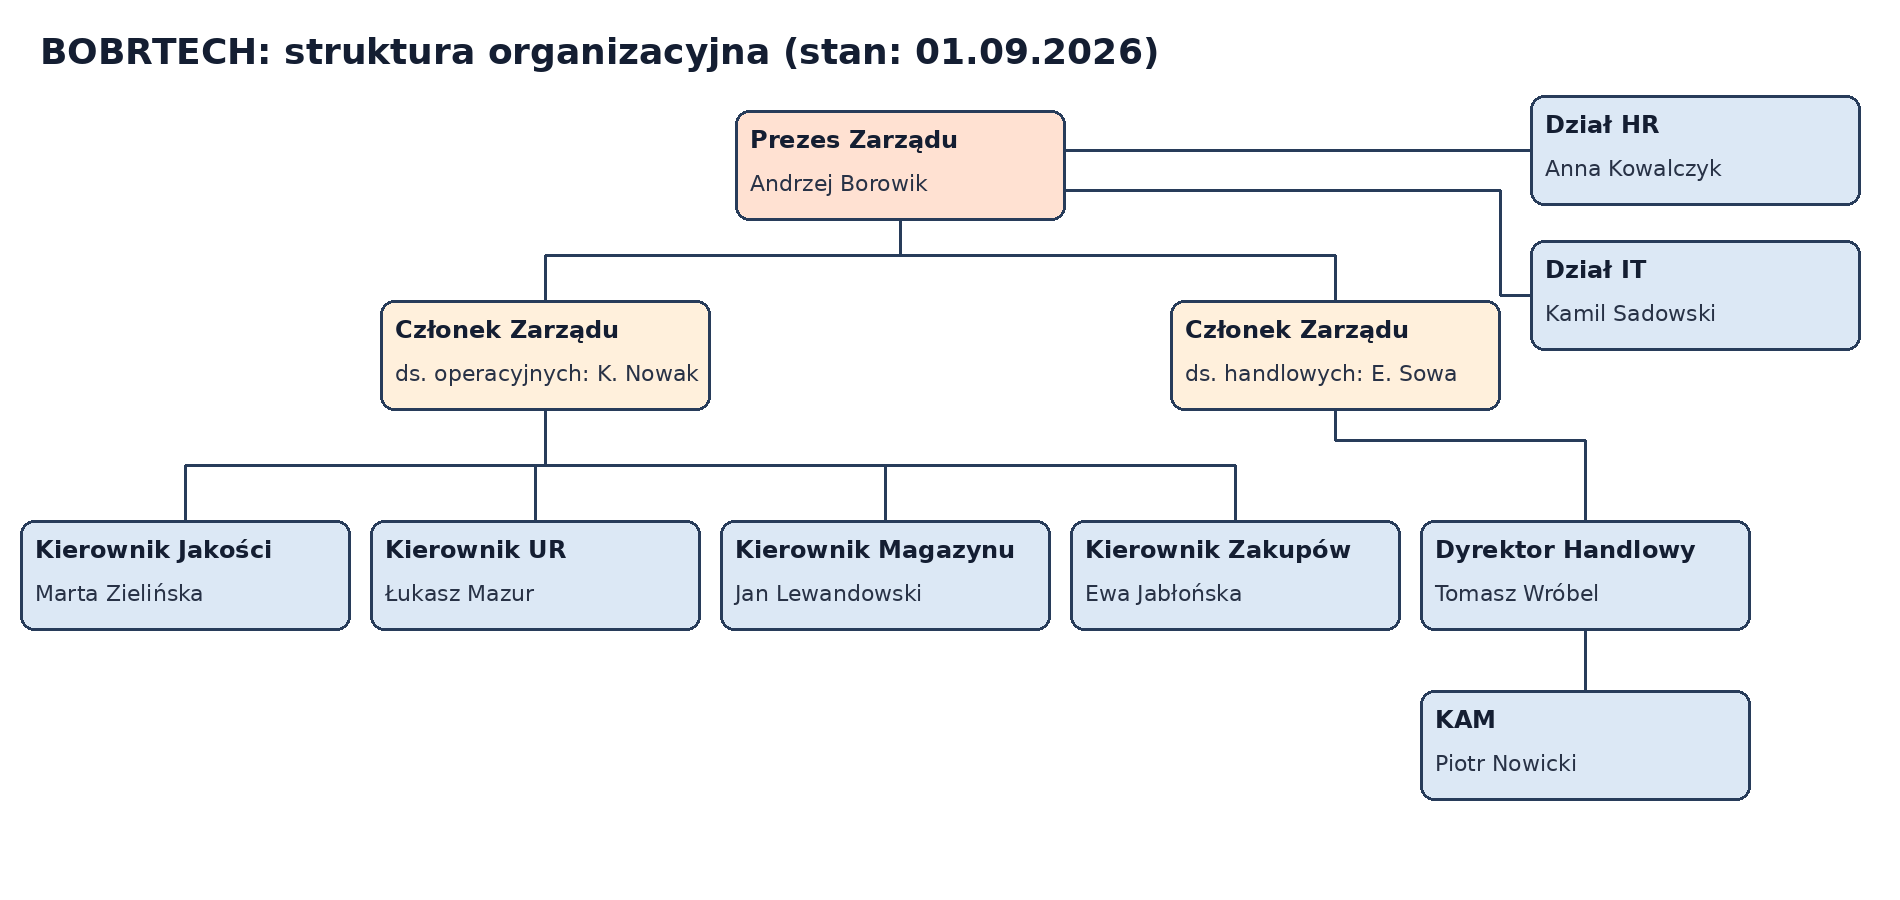
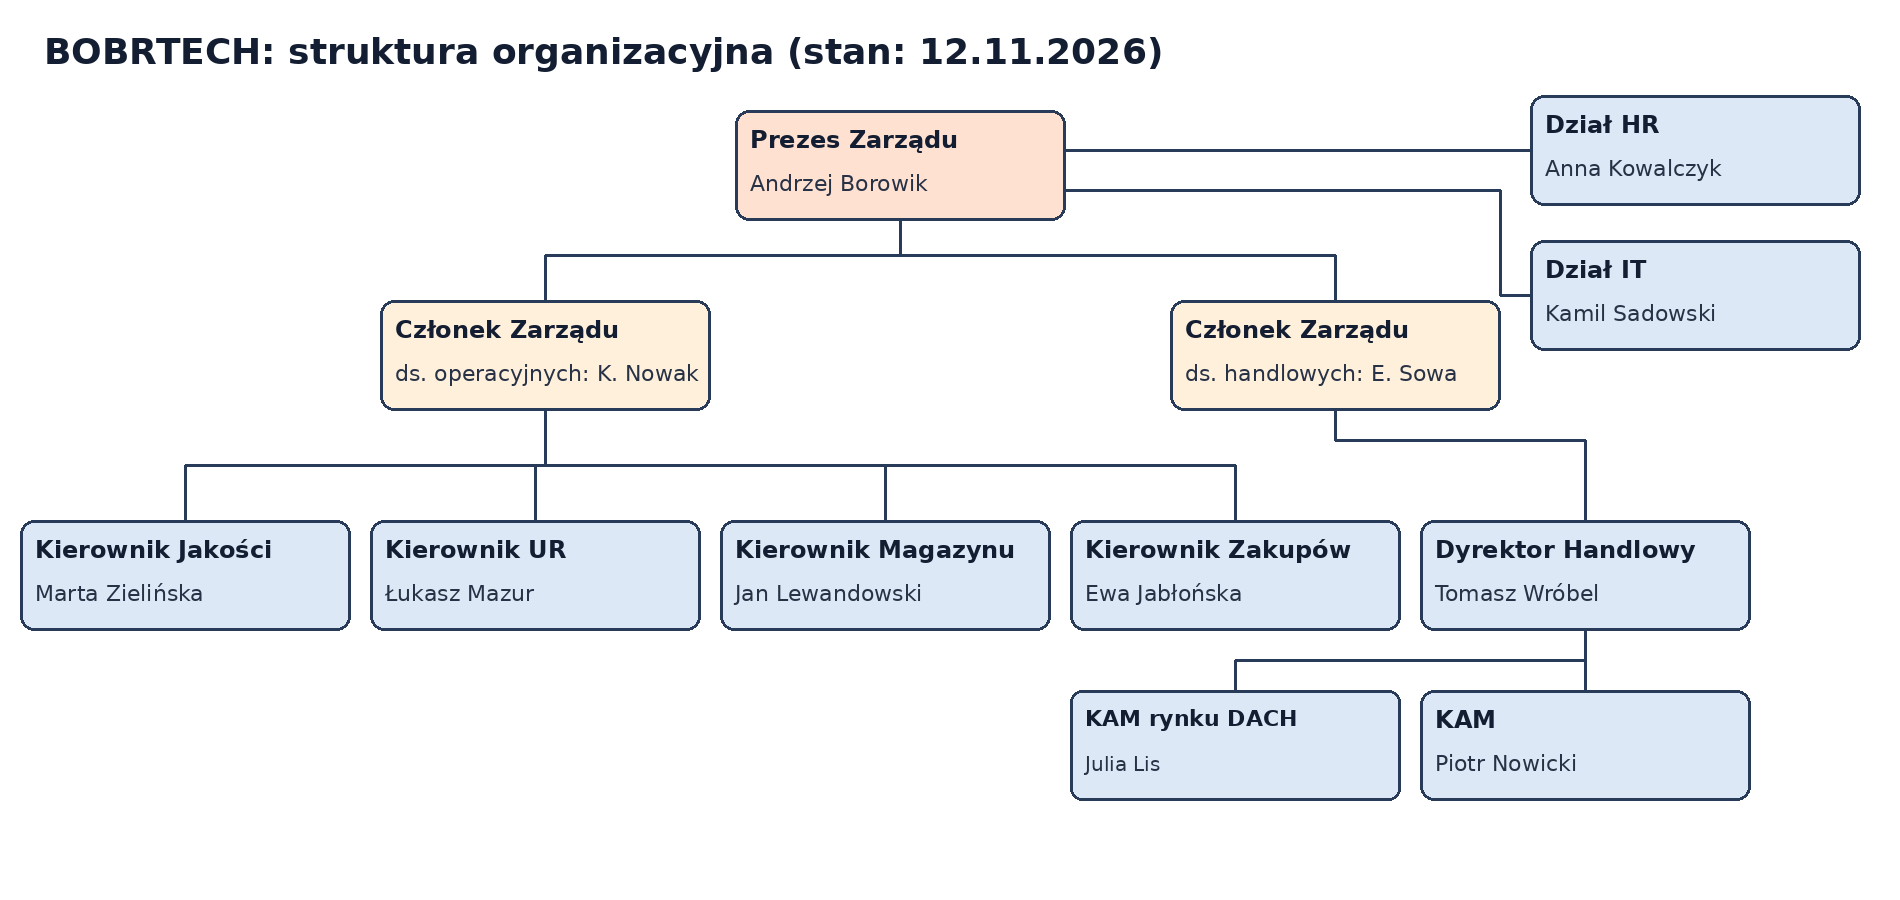
OG-ORG 2026-11: nowe stanowisko KAM rynku DACH (Julia Lis)
Zmieniony schemat PNG i jego transkrypcja w .md w jednym commicie.

Changed region(s): [[0.0311, 0.0311, 0.6211, 0.0933], [0.5589, 0.7156, 0.8074, 0.9022]]

diff --git a/00_ogolne/OG-ORG_struktura_organizacyjna.md b/00_ogolne/OG-ORG_struktura_organizacyjna.md
@@ -5,23 +5,23 @@ rodzaj: struktura
 tytul: Struktura organizacyjna BOBRTECH
 opis: "kto komu podlega, kto kieruje działami i zakładami"
 slowa_kluczowe: [struktura, organigram, podległość, przełożony, kierownik, zarząd, org chart]
-wersja: "2026-09"
+wersja: "2026-11"
 status: obowiązujący
-obowiazuje_od: 2026-09-01
+obowiazuje_od: 2026-11-12
 nastepny_przeglad: 2027-09-01
 wlasciciel: Dział HR (Anna Kowalczyk)
 dzial: Ogólne
 klasyfikacja: WEWNĘTRZNE
 wzorzec: md
 obraz: zalaczniki/obrazy/OG-ORG_struktura_organizacyjna.png
-zweryfikowal: "A. Kowalczyk, 2026-09-01"
+zweryfikowal: "A. Kowalczyk, 2026-11-12"
 zrodlo_prawdy_dla: [podległość służbowa]
 ---
-# Struktura organizacyjna BOBRTECH (stan na 1.09.2026)
+# Struktura organizacyjna BOBRTECH (stan na 12.11.2026)
 
 Transkrypcja schematu organizacyjnego (obraz: `zalaczniki/obrazy/OG-ORG_struktura_organizacyjna.png`).
 
 ## Zarząd
 - **Prezes Zarządu**: Andrzej Borowik. Bezpośrednio podlegają mu: Dział HR (Anna Kowalczyk) i Dział IT (Kamil Sadowski).
 - **Członek Zarządu ds. operacyjnych**: Krzysztof Nowak. Podlegają mu: Kierownik Jakości (Marta Zielińska), Kierownik Utrzymania Ruchu (Łukasz Mazur), Kierownik Magazynu (Jan Lewandowski), Kierownik Zakupów (Ewa Jabłońska).
-- **Członek Zarządu ds. handlowych**: Ewa Sowa. Podlega jej Dyrektor Handlowy (Tomasz Wróbel), któremu podlega KAM (Piotr Nowicki).
+- **Członek Zarządu ds. handlowych**: Ewa Sowa. Podlega jej Dyrektor Handlowy (Tomasz Wróbel), któremu podlegają KAM (Piotr Nowicki) i KAM rynku DACH (Julia Lis).

diff --git a/00_ogolne/INDEX.md b/00_ogolne/INDEX.md
@@ -5,6 +5,6 @@ wlasciciel: "Biuro Zarządu"
 # 00_ogolne
 
 <!-- INDEKS:START (generowany, nie edytuj) -->
-- OG-ORG 2026-09: kto komu podlega, kto kieruje działami i zakładami (`OG-ORG_struktura_organizacyjna.md`, przegląd 2027-09-01)
+- OG-ORG 2026-11: kto komu podlega, kto kieruje działami i zakładami (`OG-ORG_struktura_organizacyjna.md`, przegląd 2027-09-01)
 - OG-SL-01 1.4: znaczenie skrótów (OTD, PPAP, 8D, KJ) i nazw systemów firmy (Reklamator, Delegatka, ERP) (`OG-SL-01_slownik_skrotow.md`, przegląd 2027-11-12)
 <!-- INDEKS:END -->
